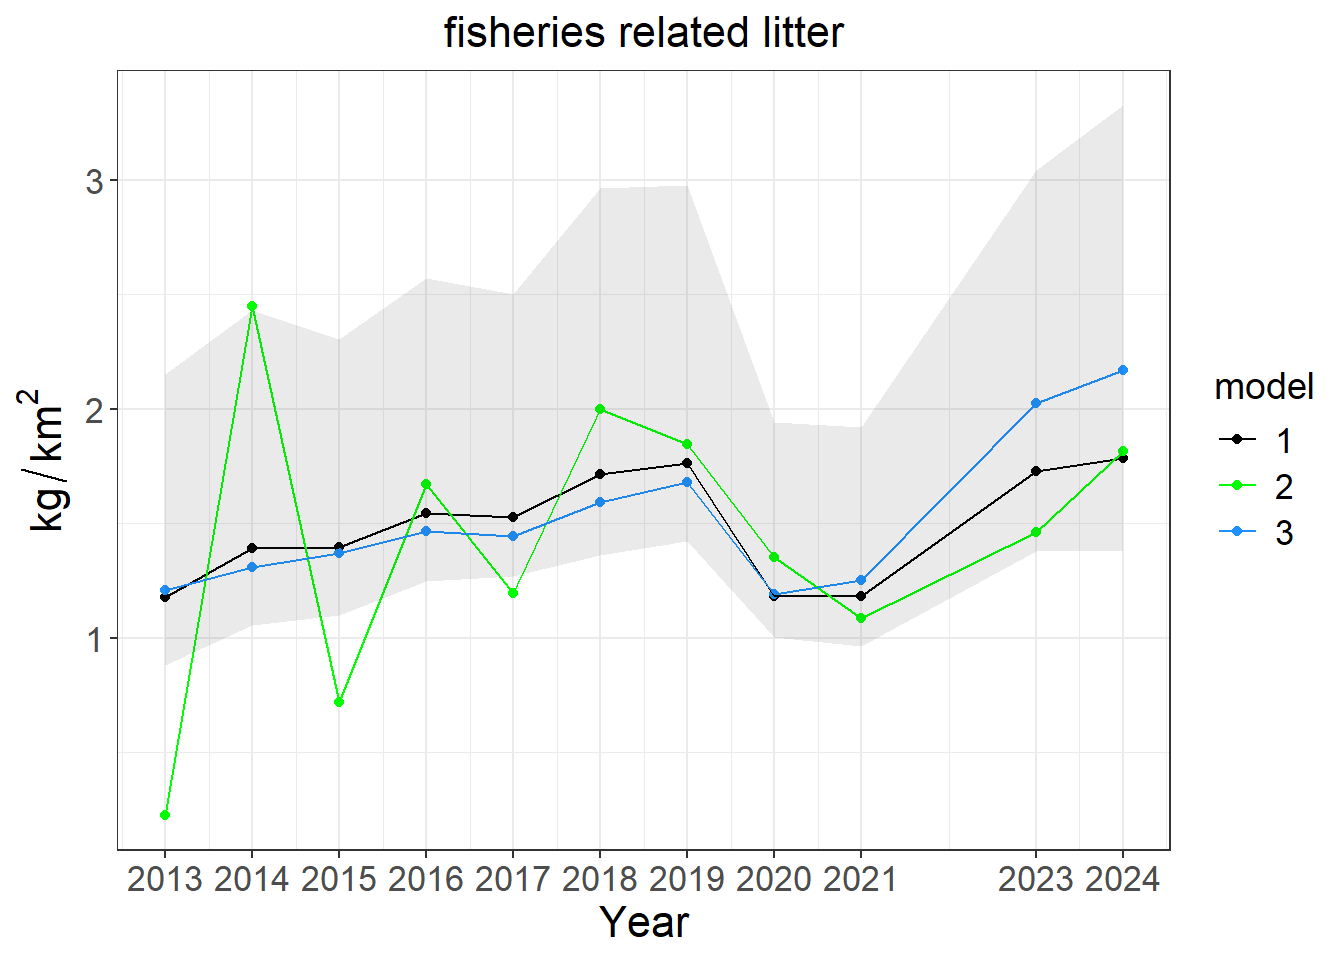
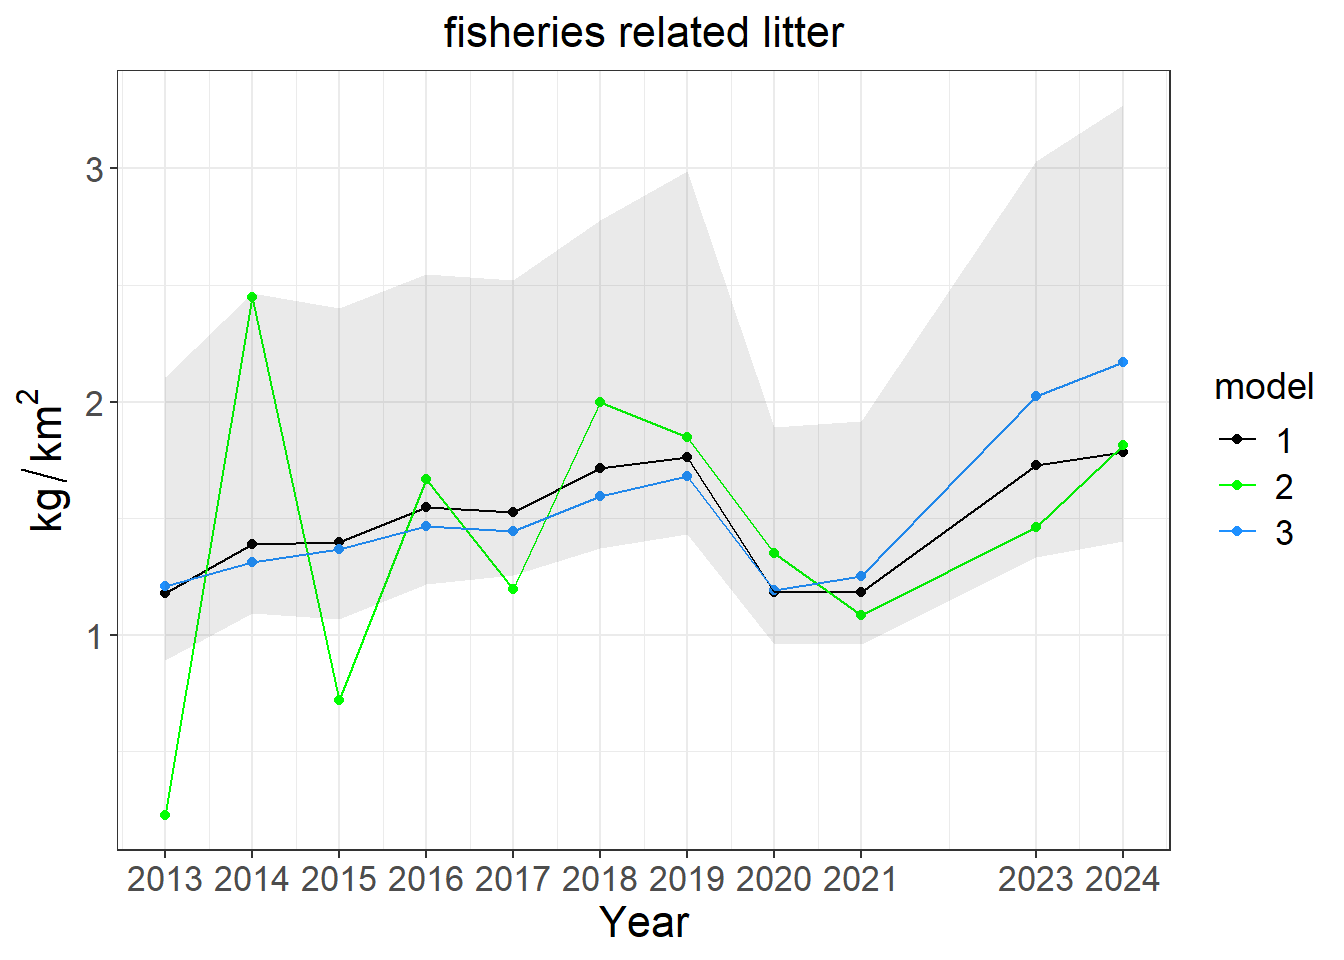
20250902_003

diff --git a/docs/litter_modelling.html b/docs/litter_modelling.html
@@ -195,7 +195,7 @@ pre > code.sourceCode > span > a:first-child::before { text-decoration: underlin
 <span class="menu-text">SEAwise GitHub</span></a>
   </li>  
   <li class="nav-item">
-    <a class="nav-link" href="https://github.com/COISPA/litter"> 
+    <a class="nav-link" href="https://github.com/COISPA/Litter_SEAwise_quarto"> 
 <span class="menu-text">COISPA Github</span></a>
   </li>  
 </ul>
@@ -277,7 +277,7 @@ pre > code.sourceCode > span > a:first-child::before { text-decoration: underlin
 
 <div class="cell">
 <div class="cell-output cell-output-stdout">
-<pre><code>Compiled on 02/09/2025, 17:41</code></pre>
+<pre><code>Compiled on 02/09/2025, 17:58</code></pre>
 </div>
 </div>
 <!-- Logo in the title -->
@@ -718,7 +718,7 @@ FR ,  kg_km2 , model 1 </code></pre>
 <div class="cell-output-display">
 <div data-pagedtable="false">
   <script data-pagedtable-source="" type="application/json">
-{"columns":[{"label":[""],"name":["_rn_"],"type":[""],"align":["left"]},{"label":["year"],"name":[1],"type":["dbl"],"align":["right"]},{"label":["mean_1"],"name":[2],"type":["dbl"],"align":["right"]},{"label":["lower_1"],"name":[3],"type":["dbl"],"align":["right"]},{"label":["higher_1"],"name":[4],"type":["dbl"],"align":["right"]},{"label":["mean_2"],"name":[5],"type":["lgl"],"align":["right"]},{"label":["lower_2"],"name":[6],"type":["lgl"],"align":["right"]},{"label":["higher_2"],"name":[7],"type":["lgl"],"align":["right"]},{"label":["mean_3"],"name":[8],"type":["lgl"],"align":["right"]},{"label":["lower_3"],"name":[9],"type":["lgl"],"align":["right"]},{"label":["higher_3"],"name":[10],"type":["lgl"],"align":["right"]},{"label":["cv1"],"name":[11],"type":["dbl"],"align":["right"]},{"label":["cv2"],"name":[12],"type":["lgl"],"align":["right"]},{"label":["cv3"],"name":[13],"type":["lgl"],"align":["right"]}],"data":[{"1":"2013","2":"1.179177","3":"0.8828289","4":"2.152685","5":"NA","6":"NA","7":"NA","8":"NA","9":"NA","10":"NA","11":"0.7001111","12":"NA","13":"NA","_rn_":"1"},{"1":"2014","2":"1.390357","3":"1.0570111","4":"2.431464","5":"NA","6":"NA","7":"NA","8":"NA","9":"NA","10":"NA","11":"0.6928889","12":"NA","13":"NA","_rn_":"2"},{"1":"2015","2":"1.395881","3":"1.0996027","4":"2.305665","5":"NA","6":"NA","7":"NA","8":"NA","9":"NA","10":"NA","11":"0.7000000","12":"NA","13":"NA","_rn_":"3"},{"1":"2016","2":"1.545665","3":"1.2482080","4":"2.568673","5":"NA","6":"NA","7":"NA","8":"NA","9":"NA","10":"NA","11":"0.6868889","12":"NA","13":"NA","_rn_":"4"},{"1":"2017","2":"1.528219","3":"1.2693939","4":"2.502562","5":"NA","6":"NA","7":"NA","8":"NA","9":"NA","10":"NA","11":"0.6854118","12":"NA","13":"NA","_rn_":"5"},{"1":"2018","2":"1.715294","3":"1.3619149","4":"2.963349","5":"NA","6":"NA","7":"NA","8":"NA","9":"NA","10":"NA","11":"0.6868539","12":"NA","13":"NA","_rn_":"6"}],"options":{"columns":{"min":{},"max":[10]},"rows":{"min":[10],"max":[10]},"pages":{}}}
+{"columns":[{"label":[""],"name":["_rn_"],"type":[""],"align":["left"]},{"label":["year"],"name":[1],"type":["dbl"],"align":["right"]},{"label":["mean_1"],"name":[2],"type":["dbl"],"align":["right"]},{"label":["lower_1"],"name":[3],"type":["dbl"],"align":["right"]},{"label":["higher_1"],"name":[4],"type":["dbl"],"align":["right"]},{"label":["mean_2"],"name":[5],"type":["lgl"],"align":["right"]},{"label":["lower_2"],"name":[6],"type":["lgl"],"align":["right"]},{"label":["higher_2"],"name":[7],"type":["lgl"],"align":["right"]},{"label":["mean_3"],"name":[8],"type":["lgl"],"align":["right"]},{"label":["lower_3"],"name":[9],"type":["lgl"],"align":["right"]},{"label":["higher_3"],"name":[10],"type":["lgl"],"align":["right"]},{"label":["cv1"],"name":[11],"type":["dbl"],"align":["right"]},{"label":["cv2"],"name":[12],"type":["lgl"],"align":["right"]},{"label":["cv3"],"name":[13],"type":["lgl"],"align":["right"]}],"data":[{"1":"2013","2":"1.179177","3":"0.8913695","4":"2.107016","5":"NA","6":"NA","7":"NA","8":"NA","9":"NA","10":"NA","11":"0.6964444","12":"NA","13":"NA","_rn_":"1"},{"1":"2014","2":"1.390357","3":"1.0939920","4":"2.465544","5":"NA","6":"NA","7":"NA","8":"NA","9":"NA","10":"NA","11":"0.6878889","12":"NA","13":"NA","_rn_":"2"},{"1":"2015","2":"1.395881","3":"1.0659123","4":"2.399840","5":"NA","6":"NA","7":"NA","8":"NA","9":"NA","10":"NA","11":"0.6880000","12":"NA","13":"NA","_rn_":"3"},{"1":"2016","2":"1.545665","3":"1.2190339","4":"2.544761","5":"NA","6":"NA","7":"NA","8":"NA","9":"NA","10":"NA","11":"0.6915556","12":"NA","13":"NA","_rn_":"4"},{"1":"2017","2":"1.528219","3":"1.2564710","4":"2.521866","5":"NA","6":"NA","7":"NA","8":"NA","9":"NA","10":"NA","11":"0.6851765","12":"NA","13":"NA","_rn_":"5"},{"1":"2018","2":"1.715294","3":"1.3718390","4":"2.777417","5":"NA","6":"NA","7":"NA","8":"NA","9":"NA","10":"NA","11":"0.6839326","12":"NA","13":"NA","_rn_":"6"}],"options":{"columns":{"min":{},"max":[10]},"rows":{"min":[10],"max":[10]},"pages":{}}}
   </script>
 </div>
 </div>

diff --git a/docs/risk_analysis.html b/docs/risk_analysis.html
@@ -195,7 +195,7 @@ pre > code.sourceCode > span > a:first-child::before { text-decoration: underlin
 <span class="menu-text">SEAwise GitHub</span></a>
   </li>  
   <li class="nav-item">
-    <a class="nav-link" href="https://github.com/COISPA/litter"> 
+    <a class="nav-link" href="https://github.com/COISPA/Litter_SEAwise_quarto"> 
 <span class="menu-text">COISPA Github</span></a>
   </li>  
 </ul>
@@ -267,7 +267,7 @@ pre > code.sourceCode > span > a:first-child::before { text-decoration: underlin
 
 <div class="cell">
 <div class="cell-output cell-output-stdout">
-<pre><code>Compiled on 02/09/2025, 17:42</code></pre>
+<pre><code>Compiled on 02/09/2025, 17:58</code></pre>
 </div>
 </div>
 <!-- Logo in the title -->

diff --git a/docs/index.html b/docs/index.html
@@ -190,7 +190,7 @@ pre > code.sourceCode > span > a:first-child::before { text-decoration: underlin
 <span class="menu-text">SEAwise GitHub</span></a>
   </li>  
   <li class="nav-item">
-    <a class="nav-link" href="https://github.com/COISPA/litter"> 
+    <a class="nav-link" href="https://github.com/COISPA/Litter_SEAwise_quarto"> 
 <span class="menu-text">COISPA Github</span></a>
   </li>  
 </ul>
